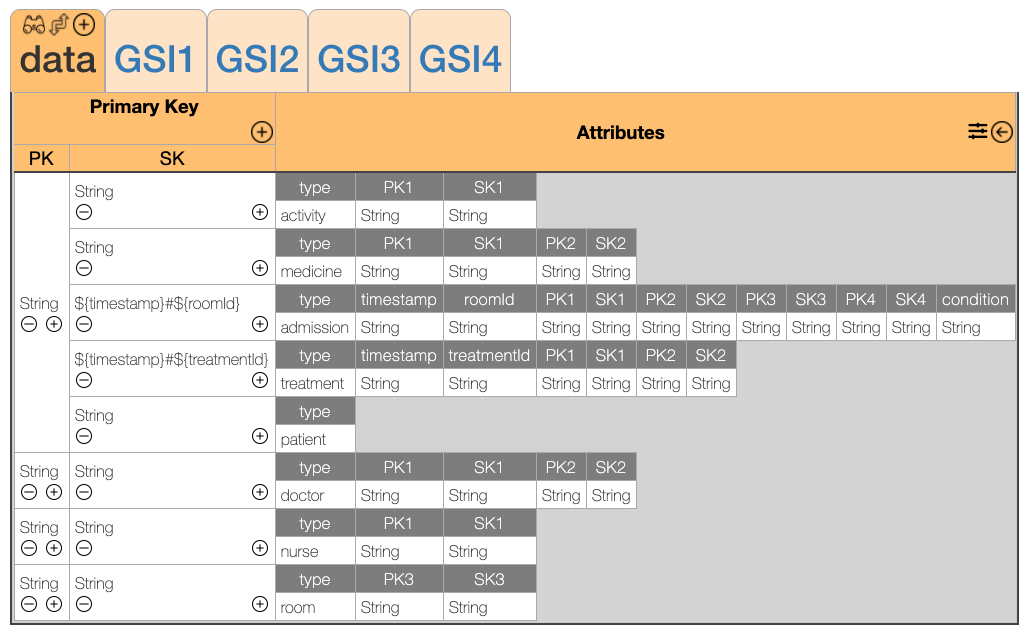
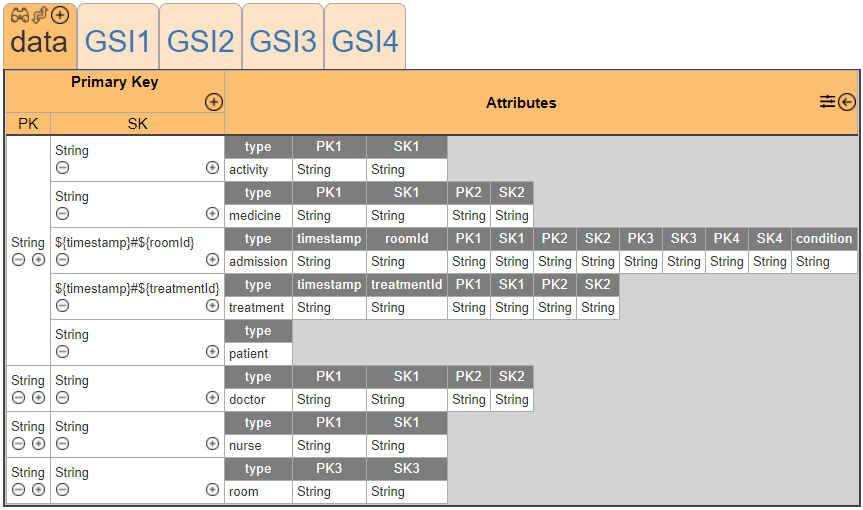
Updated docs

Changed region(s): [[0.0, 0.0, 1.0, 1.0], [0.5423, 0.1765, 0.6628, 0.2353]]

diff --git a/index.html b/index.html
@@ -87,29 +87,34 @@
                 <h3 tabindex="-1">Using the Amazon DynamoDB Data Modeler</h3>
                 <p>Certain elements in the Table view are decorated with controls that can be used for the following actions:</p>
                 <p>Click the swap '<image tabindex="-1" src="./img/swap.png" width="20" height="20" style="border: none">' control to add a new Table or select an existing Table from the current Model to view.</p>
+                <p>Click the binoculars '<image tabindex="-1" src="./img/binoculars.png" width="20" height="20" style="border: none">' control to define and run a query against the sample data loaded in the modeler.</p>
                 <p>Click the back '<image tabindex="-1" src="./img/back.png" width="20" height="20" style="border: none">' control to undo a change to the currently selected Table. The modeler caches up to 50 changes for each Table in the currently loaded Model. The change cache is cleared when a new Model is loaded.</p>
-                <p>Finally, click the add '<image tabindex="-1" src="./img/add.png" width="20" height="20" style="border: none">' control:</p>
+                <p>Click the wrench '<i class="fas fa-wrench" width="20" height="20" style="border: none"></i>' control to switch to 'schema view' to edit attribute types and Value Templates. See 'Editing Schema' section below for details.</p>
+                <p>Click the sliders '<i class="fas fa-sliders-h" width="20" height="20" style="border: none"></i>' control to switch back to 'values view' and edit attribute values.</p>
+                <p>Click the plus '<image tabindex="-1" src="./img/add.png" width="20" height="20" style="border: none">' control:</p>
                 <ol>
                     <li>On the Table Name tab to create a new index:</li><image tabindex="-1" src="./img/tab.png"></image><br><br>
                     <li>In the Primary Key header cell to add a new partition:</li><image tabindex="-1" src="./img/primaryKey.png"></image><br><br>
                     <li>In a Partition Key value cell to add a new item to a partition:</li><image tabindex="-1" src="./img/PK.png"></image><br><br>
                     <li>In a Sort Key value cell to add a new attribute to an Item:</li><image tabindex="-1" src="./img/SK.png"></image><br><br>
                 </ol>
+                <p>Finally, click the minus '<image tabindex="-1" src="./img/delete.png" width="20" height="20" style="border: none">' control:</p>
+                <ol>
+                    <li>In a Partition Key value cell to delete a partition and all Items in it:</li><image tabindex="-1" src="./img/PK.png"></image><br><br>
+                    <li>In a Sort Key value cell to delete an Item:</li><image tabindex="-1" src="./img/SK.png"></image><br><br>
+                </ol>
                 <p>The following image shows a data model for tracking patients, room assignments, and treatments for a hospital resource scheduling service originally created in NoSQL Workbench for DynamoDB (<a href="./data/Hospital.json" download>Hospital.json</a>):</p>
                 <image tabindex="-1" src="./img/model.png" class="center"></image><br><br>
-                <p>Clicking the add '<image src="./img/add.png" width="15" height="15" style="border: none">' symbol in the "Primary Key" field of the Table header will add a new Item to the bottom of the Table, as shown in the following image:</p>
+                <p>Clicking the add '<image src="./img/add.png" width="15" height="15" style="border: none"></image>' symbol in the "Primary Key" field of the Table header will add a new Item to the bottom of the Table, as shown in the following image</p>
                 <image src="./img/model1.png" class="center"></image><br><br>
-                <p>Clicking the add '<image src="./img/add.png" width="15" height="15" style="border: none">' symbol in an existing Partition Value cell or changing the PK value of a new or existing Partition will move or create Items in the specified Partition.</p>
+                <p>Clicking the add '<image src="./img/add.png" width="15" height="15" style="border: none"></image>' symbol in an existing Partition Value cell or changing the PK value of a new or existing Partition will move or create Items in the specified Partition.</p>
                 <image src="./img/model2.png" class="center"></image><br><br>
 
                 <p>Changing the "type" attribute value will cause the Item to be annoted with attributes from the corresponding Item template:</p>
                 <image src="./img/model3.png" class="center"></image><br><br>
 
-                <p>Toggling the "showSchema" wrench icon on the right of the table will display the underlying model schema. The icon then changes to sliders which when clicked will redisplay the table data. When displaying the "schema" view, the attribute types and values templates are displayed instead of the table values.</p>
-                <image src="./img/show-schema.png" class="center"></image><br><br>
 
-
-                <p>Clicking the add '<image src="./img/add.png" width="15" height="15" style="border: none">' symbol in a Sort Key value cell will add a new attribute to the Item. When new attribtes are added to an existing Item the Attribute Name becomes editable:</p>
+                <p>Clicking the add '<image src="./img/add.png" width="15" height="15" style="border: none"></image>' symbol in a Sort Key value cell will add a new attribute to the Item. When new attribtes are added to an existing Item the Attribute Name becomes editable:</p>
                 <image src="./img/model4.png" class="center"></image><br><br>
                 <p>When the attribute name is assigned, all objects of that type will be annotated with the new attribute:</p>
                 <image src="./img/model5.png" class="center"></image><br><br>
@@ -148,14 +153,18 @@
                     <li>Edit Value Template - Define a value template to generate the Attribute value.</li>
                     <li>Generate Value - Inserts either an ISO Date or UUID string as the Attribute value.</li>
                 </ol>
+
+                <h4 tabindex="-1">Modifying Schema Models</h4>
+                <p>Toggling the wrench '<i class="fas fa-wrench" width="20" height="20" style="border: none"></i>' icon on the right of the table will display the underlying model schema. The icon then changes to sliders '<i class="fas fa-sliders-h" width="20" height="20" style="border: none"></i>' which when clicked will redisplay the table data. When displaying the "Schema" view, the attribute types and values templates are displayed instead of the table values.</p>
+                <image src="./img/show-schema.png" class="center"></image><br><br>
                 <h3 tabindex="-1">Value Templates</h3>
-                <p>Attributes can be assigned value templates to generate their Associated values. Value templates are associated to Attributes by Item type. When an Item is created or modified the type of the Item will determine any value templates that should be used to generate Attribute values. When the 'Edit Value Template' option is selected the following modal dialogue will appear:</p>
-                <image src="./img/MappingFunction.png"></image><br><br>
-                <p>Currently the only operation supported for value template is concatenation of other Attributes into a composite attribute. To combine Attribute values simply reference the attribute name as shown in the screenshot. Any text outside of the '${}' syntax will appear as typed in the final value.</p>
+                <p>Attributes can be assigned value templates to generate values. Value templates are associated to Attributes by Item type. When an Item is created or modified the type of the Item will determine any value templates that should be used to generate Attribute values. Value Templates can be assigned directly by editing values in the "Schema" view or via dialog by selecting the "Edit Value Template" option from the context menu. Assigning a Value Template to an attribute will apply the template to all Items of the same model type.</p>
+                <p>Currently the only operation supported for value template is concatenation of other Attributes into a composite attribute. To combine Attribute values simply reference the attribute name using '${name}' as shown in the screenshot. Any text outside of the '${}' syntax will appear as typed in the final value. In the model defined below the Value Template for the Item attribute 'SK' of the 'treatment' Schema Model is defined as "${timestamp}#${treatmentId}". This will cause the modeler to generate an 'SK' attribute with a value similar to "2020-11-25T12:00:00#T1" using the values of the 'timestamp' and 'treatmentId' attributes for any Item with a 'type' value of 'treatment'.</p>
+                <image src="./img/valueTemplate.png"></image><br><br>
+                
 
                 <h3 tabindex="-1">OneTable Integration</h3>
-                <p>If you use <a href="https://github.com/sensedeep/dynamodb-onetable">OneTable</a> you can now import and export your schema files into and out of the DynamoDB Datamodel using the convenient links on the Side Panel menu. To import, simply paste your JSON OneTable Schema into the dialog and you will be able to create Items using the Entity types defined in the OneTable schema. When creating items, set the "type" attribute to the entity type to populate all the other entity attributes. Currently only Table and Entity schema are imported. Exported schemas are saved to a file in a multi-line JSON format.</p>
-                <image src="./img/OneTable.png"></image><br><br>
+                <p>If you use <a href="https://github.com/sensedeep/dynamodb-onetable">OneTable</a> you can now import and export your schema files to/from the DynamoDB Modeler using the convenient links on the Side Panel menu. To import, simply click the import link and specify the location of your OneTable json or javascript schema file. The modeler will convert any data objects from OneTable format and load all the ValueTemplates and Shema models defined in the OneTable schema.  After the schema is imported you will be able to create Items using OneTable model types. Exported schemas are saved to a file in a multi-line JSON format.</p>
                 <p>That should be enough to get you going. Click the '☰ menu' icon in the upper right corner to import an existing model from NoSQL Workbench for DynamoDB or use the modeler to build a data model for your DynamoDB Table from scratch.</p>
                 <p>Have ideas or feature requests? Ping me on <a href="https://twitter.com/houlihan_rick">Twitter</a> and let me know!</p>
             </div>

diff --git a/js/function.js b/js/function.js
@@ -1539,8 +1539,8 @@ function saveModel() {
         };
     }
     
-    if (model.ModelSchema.data;)
-    delete model.ModelSchema.data;
+    if (model.ModelSchema.data)
+        delete model.ModelSchema.data;
 
     save(JSON.stringify(model), model.ModelName + ".json", "json");
 }
